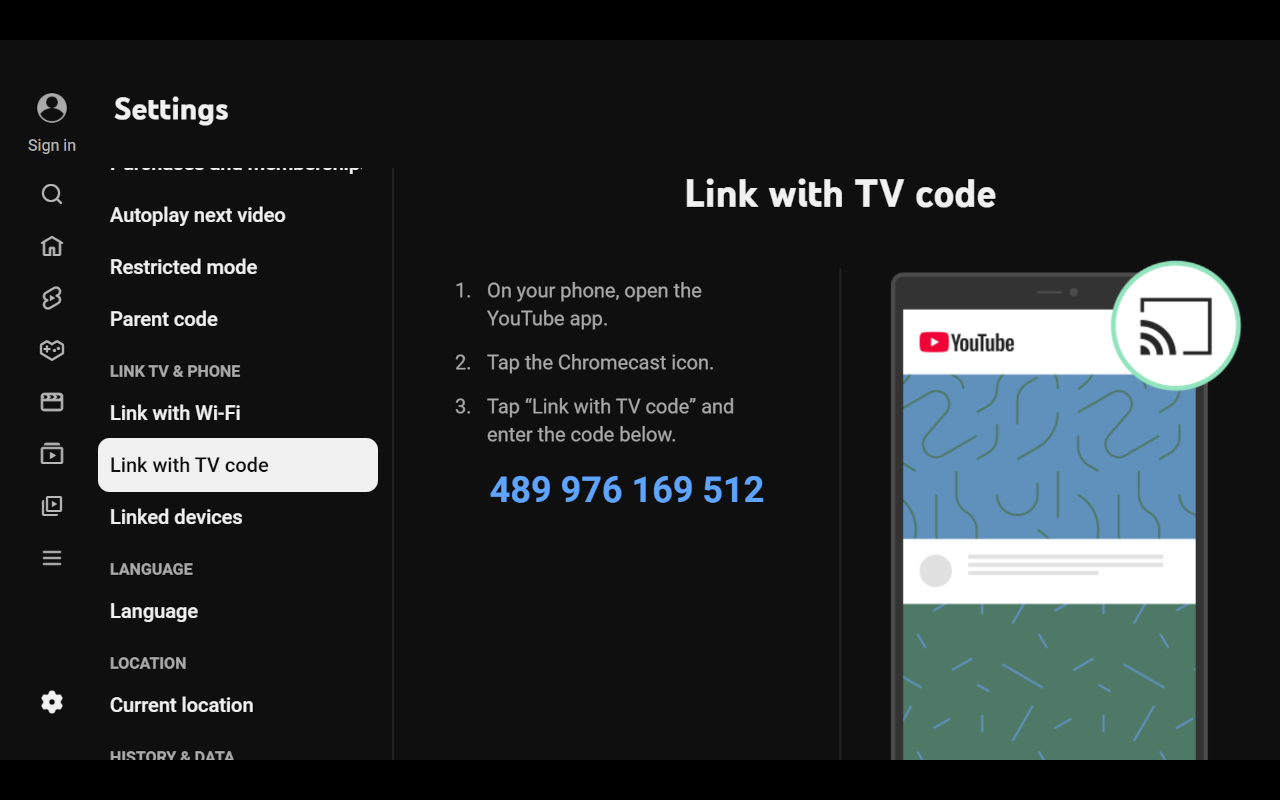
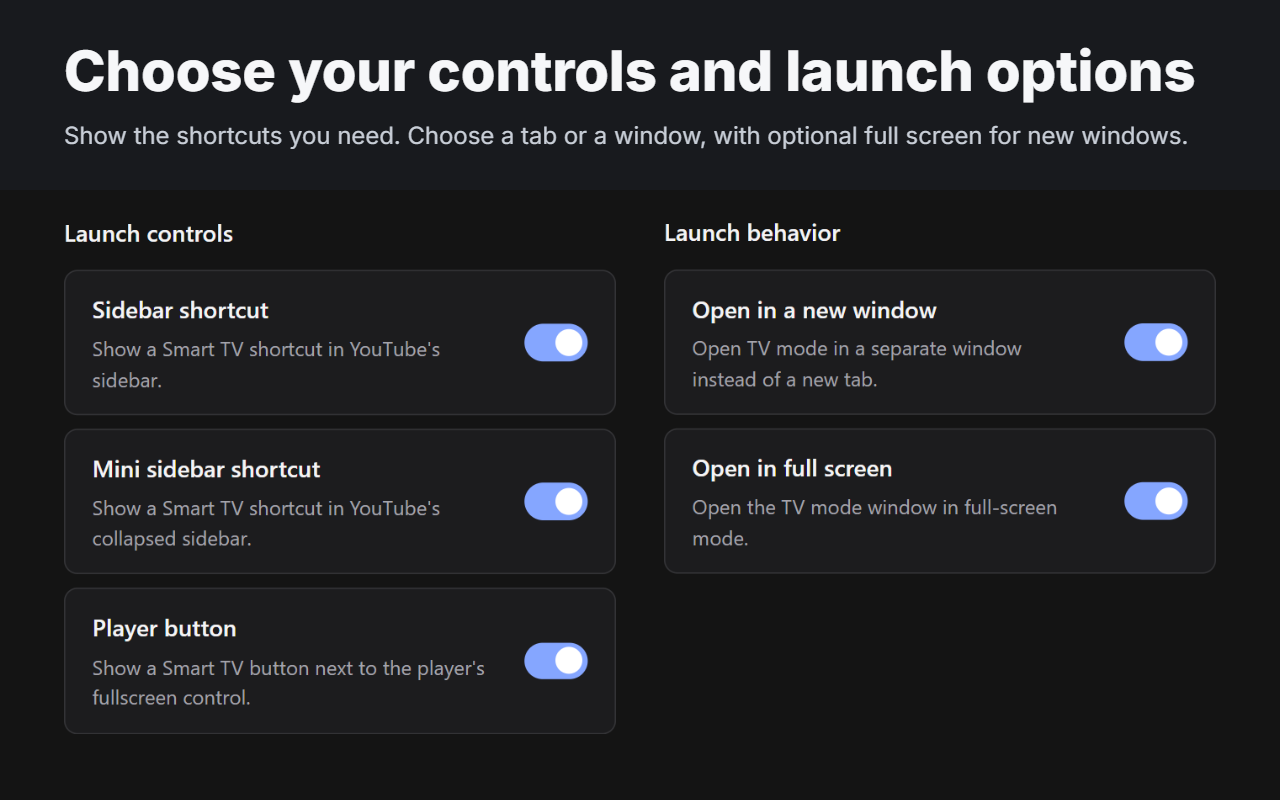
Update Chrome Web Store screenshots

diff --git a/assets/store/sources/README.md b/assets/store/sources/README.md
@@ -1,0 +1,27 @@
+# Store Screenshot Sources
+
+The three store screenshots are `../screenshot-1.png`, `../screenshot-2.png`, and
+`../screenshot-3.png`. Each is a 1280 x 800, 24-bit RGB PNG without transparency.
+
+## Source Captures
+
+All product interfaces are real browser screenshots captured from the production
+build of YouTube Smart TV. The final compositions crop and scale these captures
+without redesigning the product UI.
+
+- `player.png`: YouTube player showing Spring at 6:30, captured November 3, 2026.
+- `tv-code.png`: YouTube's phone-pairing screen, captured November 3, 2026. The
+  displayed code was temporary and is not intended to be used for pairing.
+- `options-controls.png` and `options-behavior.png`: settings sections captured
+  November 5, 2026 with enlarged browser rendering. Footers and version numbers
+  are excluded.
+
+## Film Attribution
+
+- Video: [Spring - Blender Open Movie](https://www.youtube.com/watch?v=WhWc3b3KhnY), Blender Studio.
+- Attribution: © Blender Foundation | cloud.blender.org/spring.
+- License: [Creative Commons Attribution 4.0](https://creativecommons.org/licenses/by/4.0/).
+- [Official licensing and attribution information](https://studio.blender.org/films/spring/pages/about/).
+
+The film frame is cropped and scaled in `../screenshot-1.png`. Film attribution
+and the license name appear below the player image.

diff --git a/assets/store/CHROME_WEB_STORE.md b/assets/store/CHROME_WEB_STORE.md
@@ -44,11 +44,9 @@ none
 
 #### Screenshots
 
-![Screenshot 1](./screenshot-1-v2.png)
-![Screenshot 2](./screenshot-2-v2.png)
-![Screenshot 3](./screenshot-3-v2.png)
-![Screenshot 4](./screenshot-4-v2.png)
-![Screenshot 5](./screenshot-5-v2.png)
+![Switch to TV mode and continue the current video](./screenshot-1.png)
+![Pair your phone with a TV code to control playback](./screenshot-2.png)
+![Customize launch controls and launch behavior](./screenshot-3.png)
 
 #### Small promo tile
 
